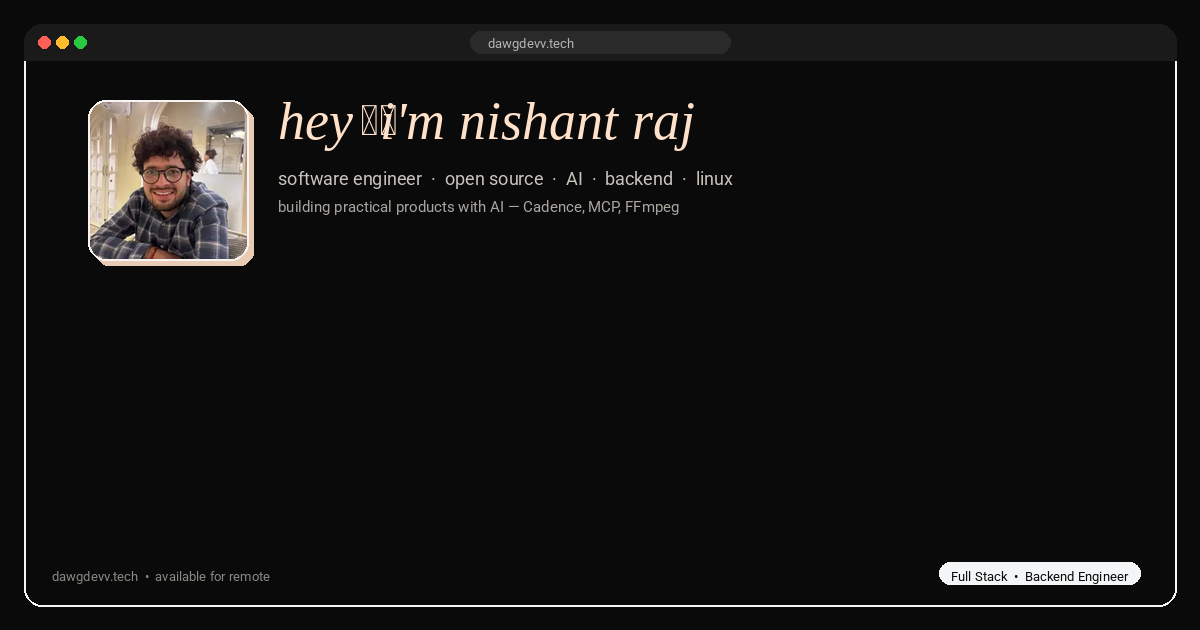
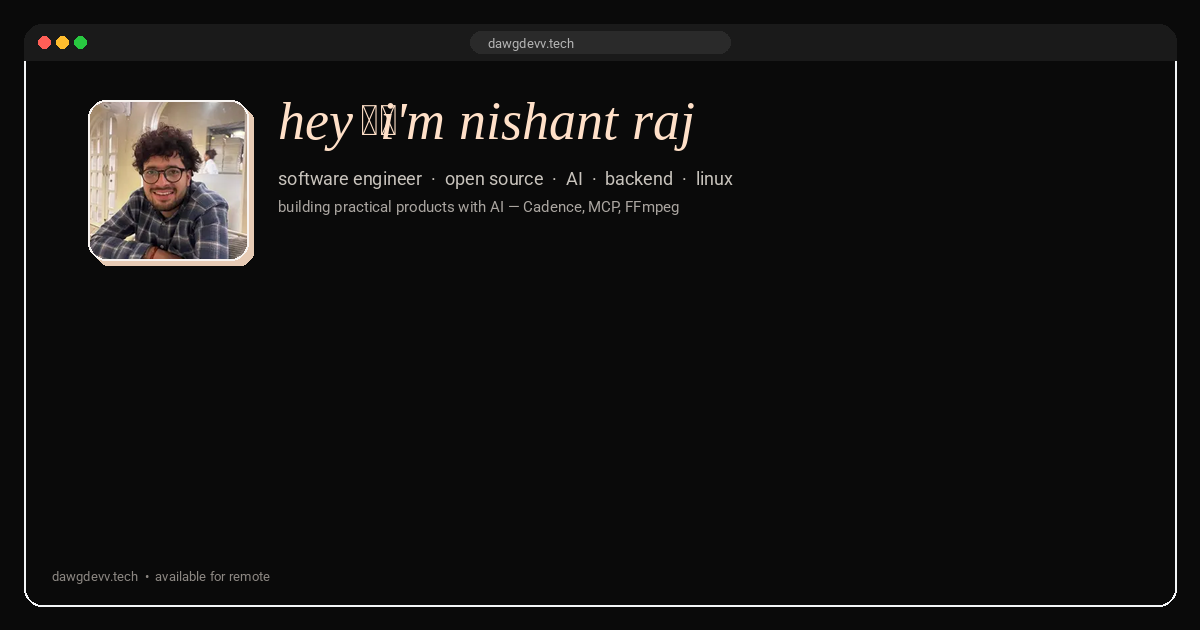
feat: update meta tags for improved clarity and SEO, change job title to Software Engineer, and replace OG image

Changed region(s): [[0.7708, 0.8746, 0.9558, 0.9349]]

diff --git a/index.html b/index.html
@@ -3,14 +3,14 @@
   <head>
     <meta charset="UTF-8" />
     <meta name="viewport" content="width=device-width, initial-scale=1.0" />
-    <title>Nishant Raj | Full Stack & Backend Engineer</title>
+    <title>Nishant Raj</title>
     <meta
       name="description"
-      content="Nishant Raj (dawgdevv) is a Full Stack and Backend Engineer building AI integrations, scalable backends, cloud deployments, and open-source software. Available for projects."
+      content="Nishant Raj (dawgdevv) builds practical products with AI — scalable systems, cloud deployments, and open-source software. Available for projects."
     />
     <meta
       name="keywords"
-      content="Nishant Raj, dawgdevv, full stack engineer, backend engineer, AI integration, open source, Go, TypeScript, Python, React, Node.js, Linux, freelance developer, India"
+      content="Nishant Raj, dawgdevv, AI integration, open source, Go, TypeScript, Python, React, Node.js, Linux, freelance developer, India"
     />
     <meta name="author" content="Nishant Raj" />
     <meta name="robots" content="index, follow, max-image-preview:large, max-snippet:-1, max-video-preview:-1" />
@@ -29,10 +29,10 @@
     <meta property="og:type" content="website" />
     <meta property="og:site_name" content="Nishant Raj" />
     <meta property="og:locale" content="en_US" />
-    <meta property="og:title" content="Nishant Raj | Full Stack & Backend Engineer" />
+    <meta property="og:title" content="Nishant Raj" />
     <meta
       property="og:description"
-      content="Full Stack and Backend Engineer building AI-powered systems, backends, and open-source tools. Available for projects."
+      content="Building practical products with AI — scalable systems, cloud deployments, and open-source software. Available for projects."
     />
     <meta property="og:url" content="https://dawgdevv.tech/" />
     <meta property="og:image" content="https://dawgdevv.tech/og-image.png" />
@@ -45,10 +45,10 @@
     <meta name="twitter:card" content="summary_large_image" />
     <meta name="twitter:site" content="@sfunish" />
     <meta name="twitter:creator" content="@sfunish" />
-    <meta name="twitter:title" content="Nishant Raj | Full Stack & Backend Engineer" />
+    <meta name="twitter:title" content="Nishant Raj" />
     <meta
       name="twitter:description"
-      content="Full Stack and Backend Engineer building AI-powered systems, backends, and open-source tools."
+      content="Building practical products with AI — scalable systems, cloud deployments, and open-source software."
     />
     <meta name="twitter:image" content="https://dawgdevv.tech/og-image.png" />
 
@@ -62,7 +62,7 @@
             "@id": "https://dawgdevv.tech/#website",
             "url": "https://dawgdevv.tech/",
             "name": "Nishant Raj Portfolio",
-            "description": "Portfolio of Nishant Raj, Full Stack and Backend Engineer.",
+            "description": "Portfolio of Nishant Raj.",
             "inLanguage": "en",
             "publisher": { "@id": "https://dawgdevv.tech/#person" }
           },
@@ -73,8 +73,8 @@
             "alternateName": ["dawgdevv", "nraj"],
             "url": "https://dawgdevv.tech/",
             "image": "https://dawgdevv.tech/og-image.png",
-            "jobTitle": "Full Stack and Backend Engineer",
-            "description": "Full Stack and Backend Engineer, open-source contributor, and independent thinker who builds practical products with AI. Experience spans AI integration, backend optimization, cloud deployments, and Linux.",
+            "jobTitle": "Software Engineer",
+            "description": "Open-source contributor and independent thinker building practical products with AI. Experience spans AI integration, backend optimization, cloud deployments, and Linux.",
             "email": "mailto:nraj02415@gmail.com",
             "sameAs": [
               "https://github.com/dawgdevv",
@@ -125,8 +125,8 @@
       <main>
         <h1>Nishant Raj</h1>
         <p>
-          Full Stack and Backend Engineer, open-source contributor, and
-          independent thinker who builds practical products with AI.
+          Open-source contributor and independent thinker building practical
+          products with AI.
         </p>
         <p>
           Work spans AI integration, backend optimization, cloud deployments,
